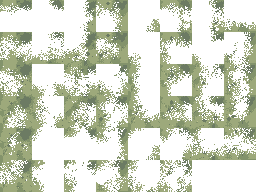
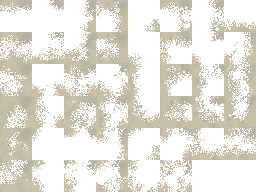
Fouled water: translucent olive-brown tint under the shore line so water texture and bank stay visible

diff --git a/tools/export_art.py b/tools/export_art.py
@@ -478,8 +478,8 @@ def export_autotiles(manifest):
 
 # ------------------------------------------------------------------ blight and fouling (soft tile states)
 BLIGHT = [(48, 36, 70), (80, 58, 112), (108, 80, 146), (150, 120, 190)]  # saturated violet, as the village mockup
-FOUL = [(58, 78, 46), (88, 110, 56), (124, 140, 78), (160, 168, 96)]
-STATE_ALPHA = {"blight": 232, "fouled": 190}
+FOUL = [(70, 66, 30), (96, 86, 36), (118, 104, 46), (140, 122, 58)]  # murky olive-brown, tints the water tile
+STATE_ALPHA = {"blight": 232, "fouled": 104}  # fouled stays translucent so water ripples and lily pads read through
 
 
 def state_tile(seed, pal, base_alpha):
